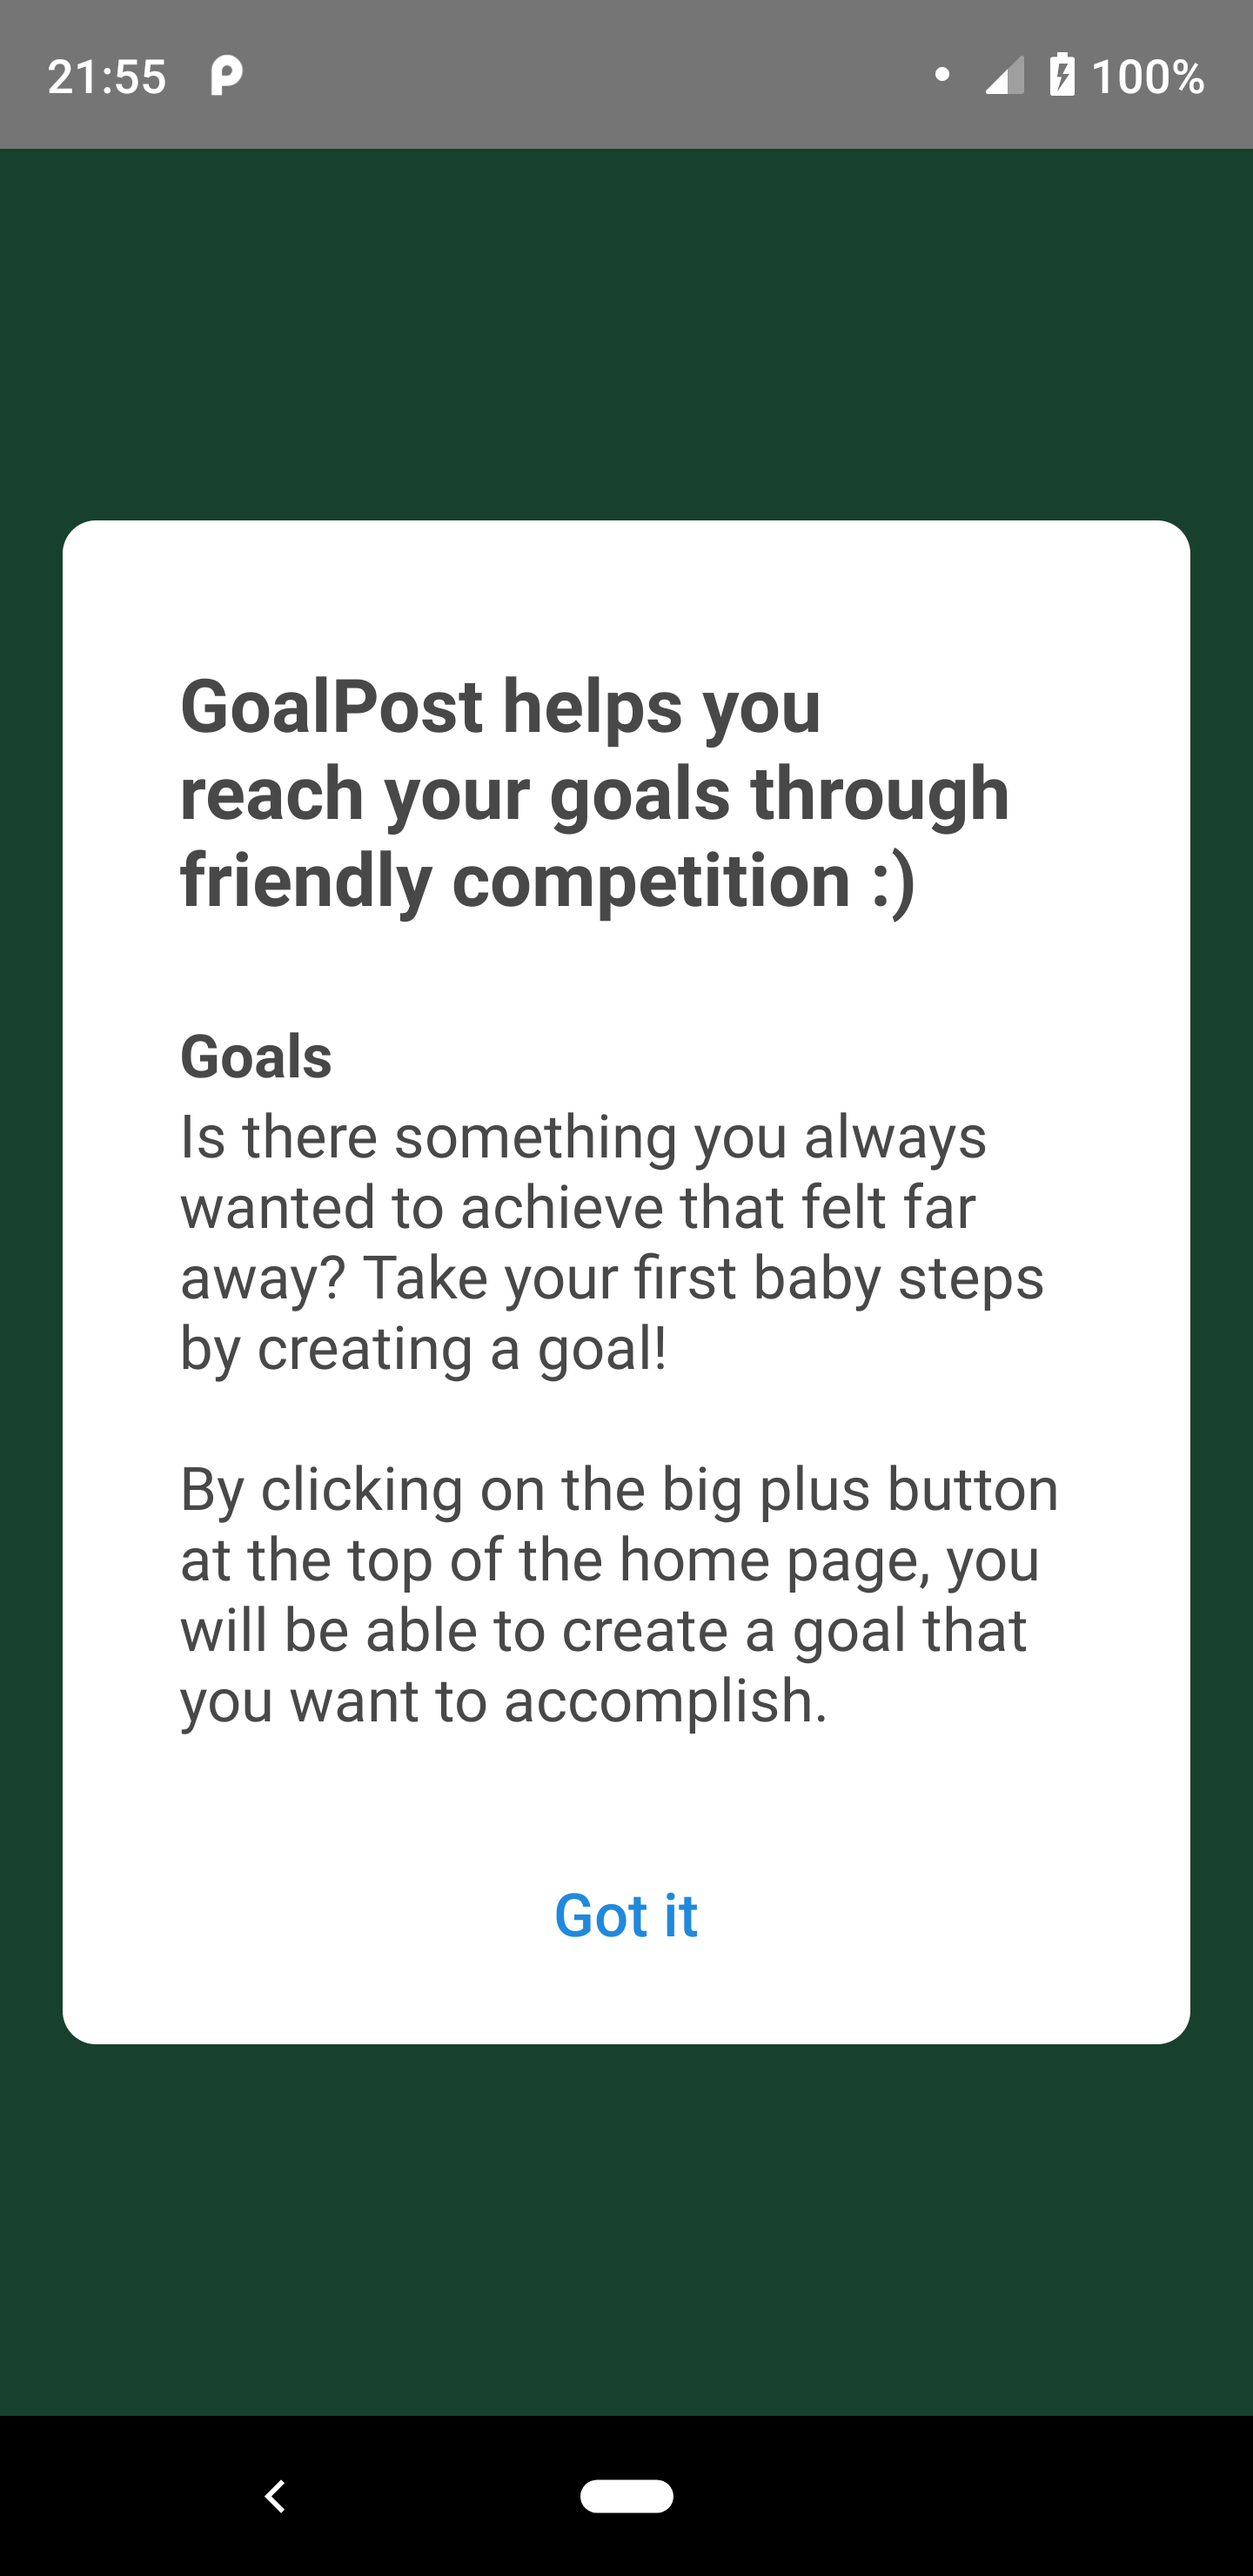
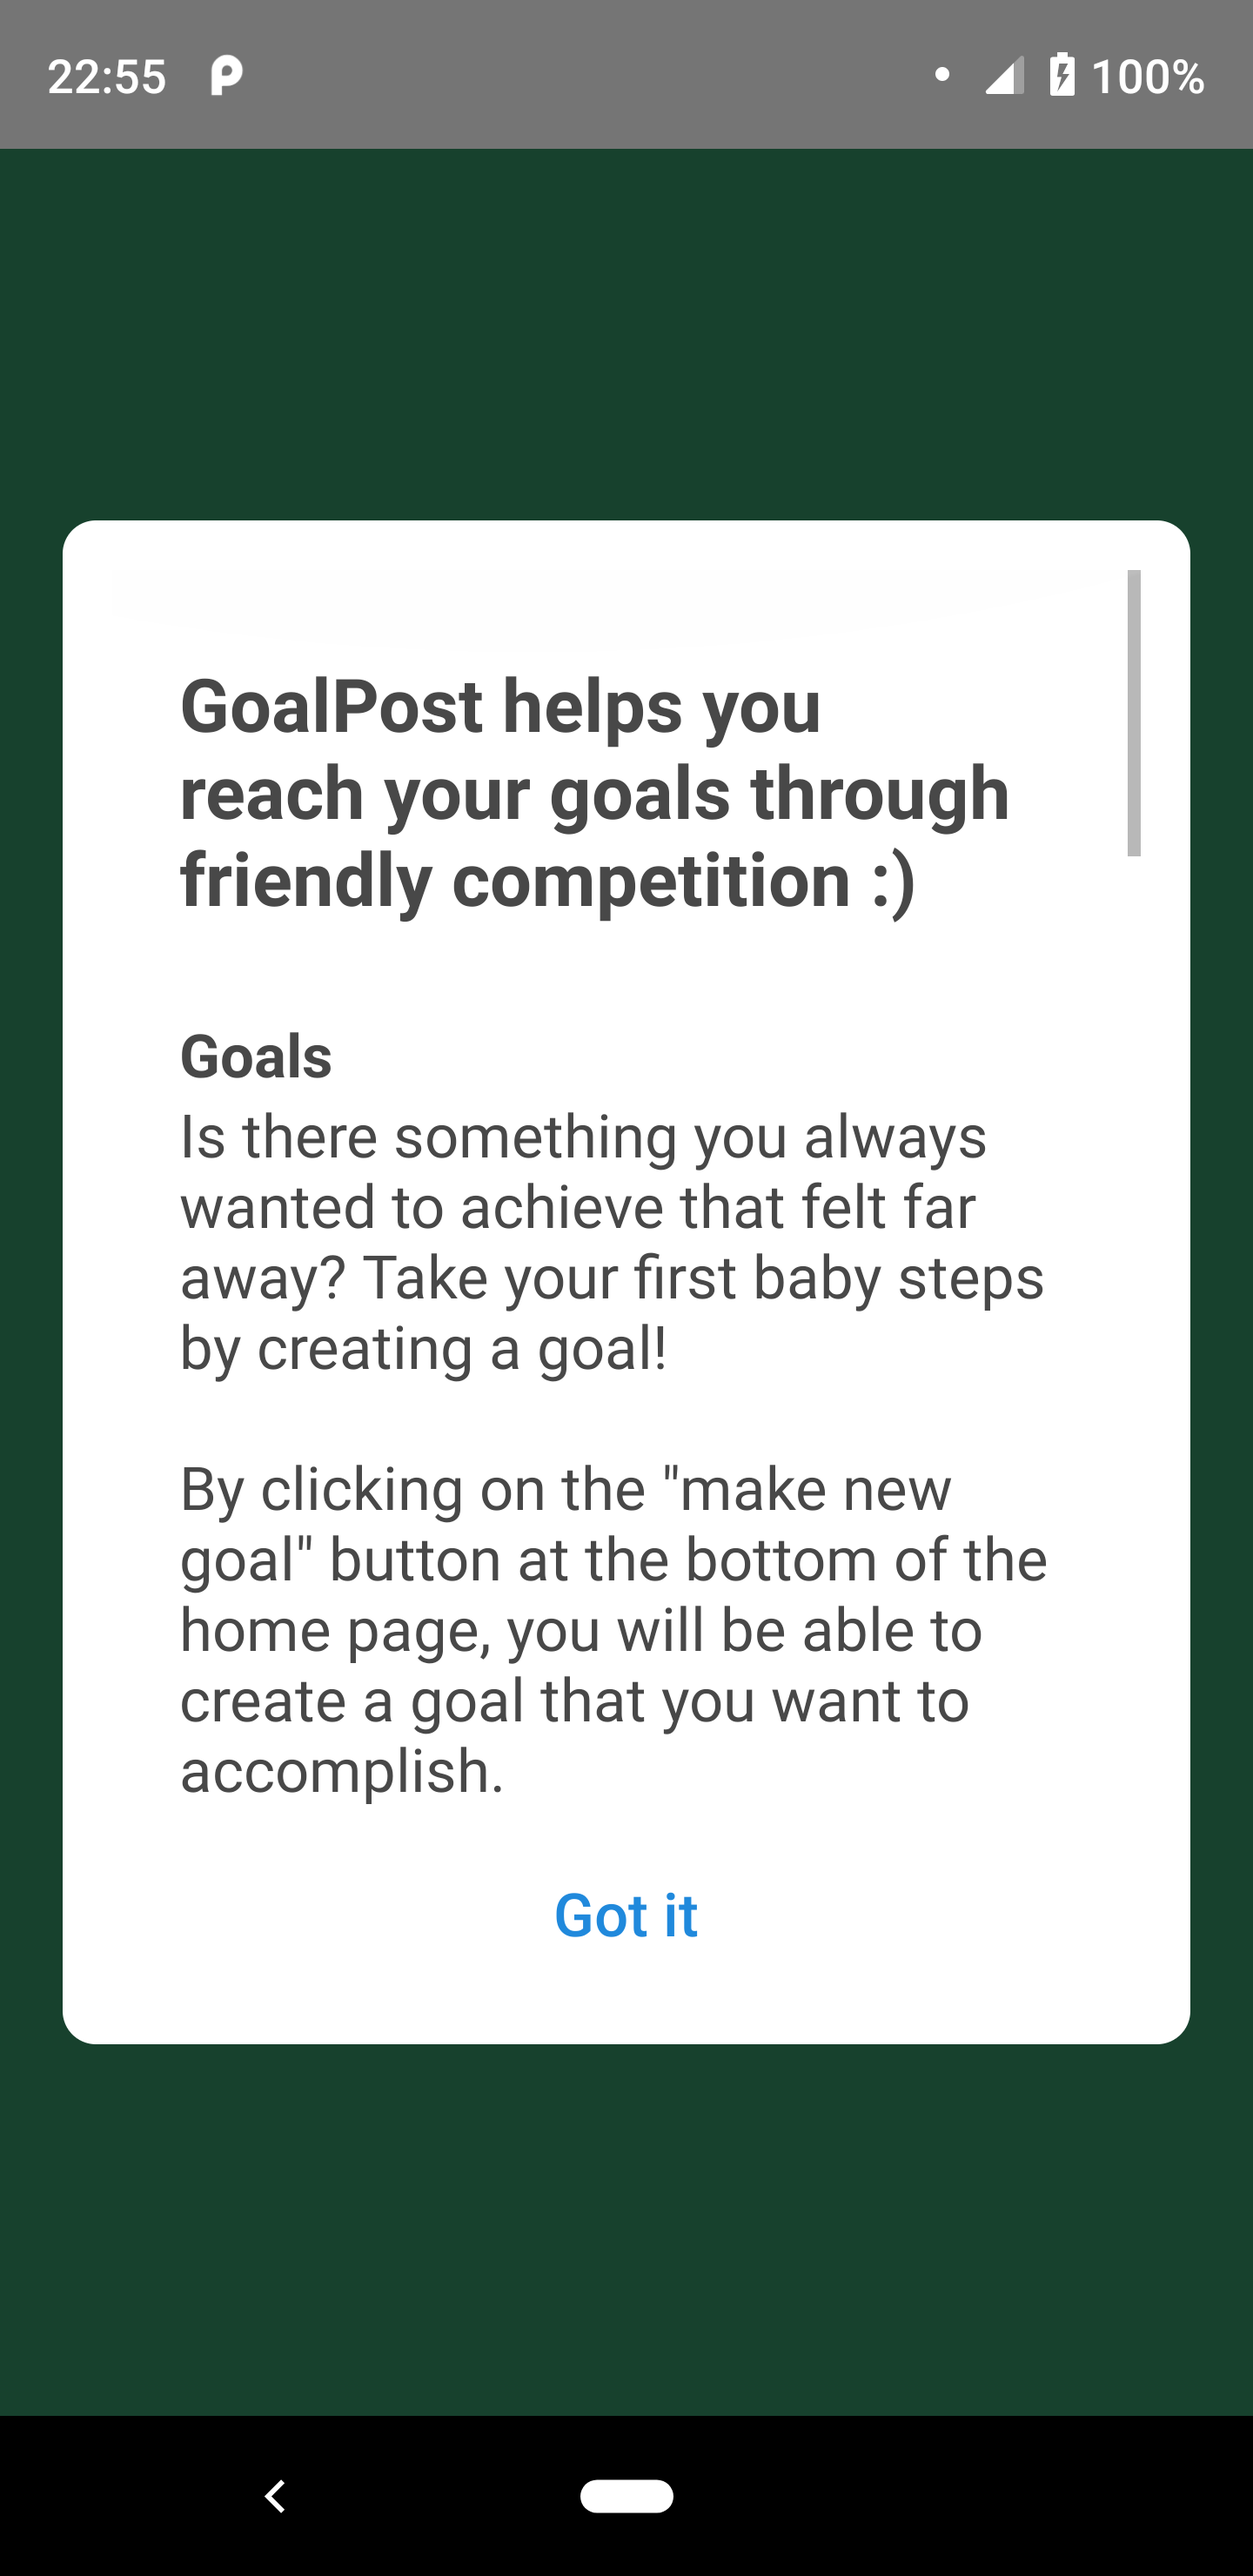
updated tutorial.

Changed region(s): [[0.125, 0.5595, 0.8438, 0.7149], [0.875, 0.2176, 0.9375, 0.3419]]

diff --git a/GoalPost/src/components/tutorial.js b/GoalPost/src/components/tutorial.js
@@ -26,7 +26,7 @@ export default class Tutorial extends Component {
           Is there something you always wanted to achieve that felt far away?
           Take your first baby steps by creating a goal!
           {"\n\n"}
-          By clicking on the big plus button at the top of the home page, you
+          By clicking on the "make new goal" button at the bottom of the home page, you
           will be able to create a goal that you want to accomplish.
           {"\n\n"}
           You can select when you want it to start, when you want it to end, and
